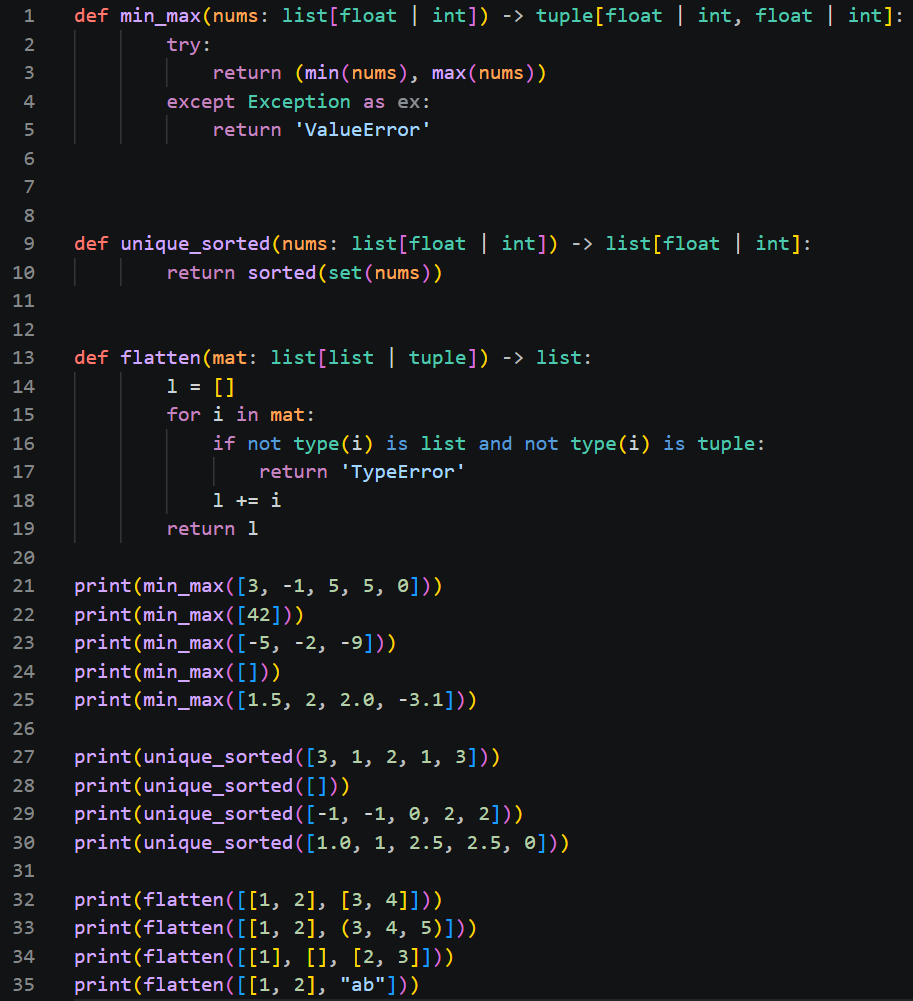
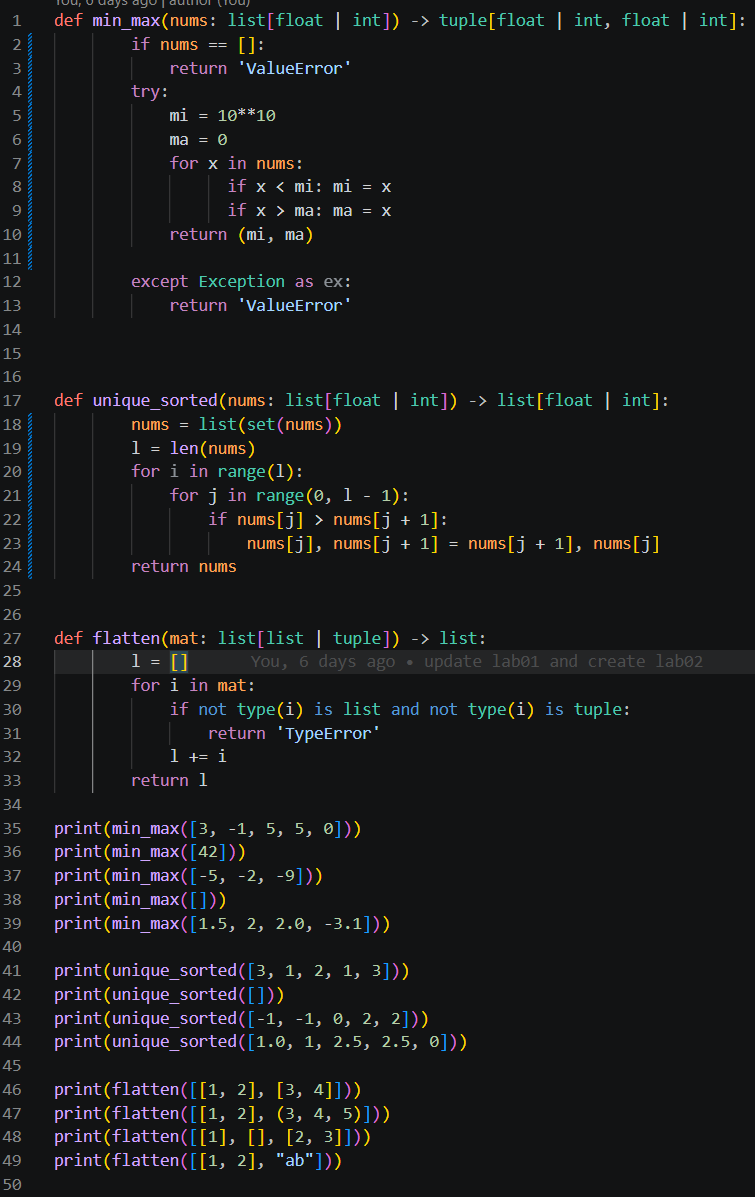
fix lab02

diff --git a/src/lab02/03_tuples.py b/src/lab02/03_tuples.py
@@ -1,13 +1,27 @@
 def pr(inp):
-    fio, group, gpa = str(inp[0]), str(inp[1]), float(inp[2])
+    try:
+        fio, group, gpa = str(inp[0]).strip(), str(inp[1]), float(inp[2])
+    except Exception as ex:
+        return f'Данные введены в не верном формате ошибка {ex}'
+    if 0 > gpa or gpa > 5: 
+        return 'GPA в не верном формате'
+    if fio == '' or len(fio.split()) < 2:
+        return 'ФИО в не верном формате'
+    if group == '':
+        return 'Группа в не верном формате'
+
     inc = ''
     for n in fio.split()[1:3]:
         inc = inc + n[0].upper() + '.'
     name = fio.split()[0]
     inc = name[0].upper() + name[1:] + ' ' + inc
-    print(f'{inc}, гр. {group}, GPA {gpa:.2f}')
+    return f'{inc}, гр. {group}, GPA {gpa:.2f}'
 
-pr(("Иванов Иван Иванович", "BIVT-25", 4.6))
-pr(("Петров Пётр", "IKBO-12", 5.0))
-pr(("Петров Пётр Петрович", "IKBO-12", 5.0))
-pr(("  сидорова  анна   сергеевна ", "ABB-01", 3.999))
+print(pr(("Иванов Иван Иванович", "BIVT-25", 4.6)))
+print(pr(("Петров Пётр", "IKBO-12", 5.0)))
+print(pr(("Петров Пётр Петрович", "IKBO-12", 5.0)))
+print(pr(("  сидорова  анна   сергеевна ", "ABB-01", 3.999)))
+print(pr(("Петров", "IKBO-12", 5.0)))
+print(pr(("Петров Пётр Петрович", "", 5.0)))
+print(pr(("Петров Пётр Петрович", "IKBO-12", 7.0)))
+print(pr(("Петров Пётр Петрович", "IKBO-12")))

diff --git a/src/lab02/01_arrays.py b/src/lab02/01_arrays.py
@@ -1,13 +1,27 @@
 def min_max(nums: list[float | int]) -> tuple[float | int, float | int]:
+        if nums == []:
+            return 'ValueError'
         try:
-            return (min(nums), max(nums))
+            mi = 10**10
+            ma = 0
+            for x in nums:
+                  if x < mi: mi = x
+                  if x > ma: ma = x
+            return (mi, ma)
+    
         except Exception as ex:
             return 'ValueError'
                
 
 
 def unique_sorted(nums: list[float | int]) -> list[float | int]:
-        return sorted(set(nums))
+        nums = list(set(nums))
+        l = len(nums)
+        for i in range(l):
+            for j in range(0, l - 1):
+                if nums[j] > nums[j + 1]:
+                    nums[j], nums[j + 1] = nums[j + 1], nums[j]
+        return nums
         
 
 def flatten(mat: list[list | tuple]) -> list:
